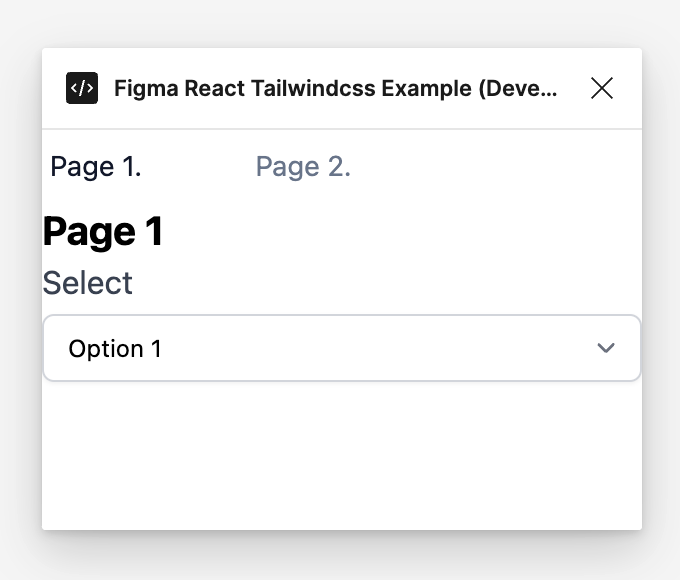
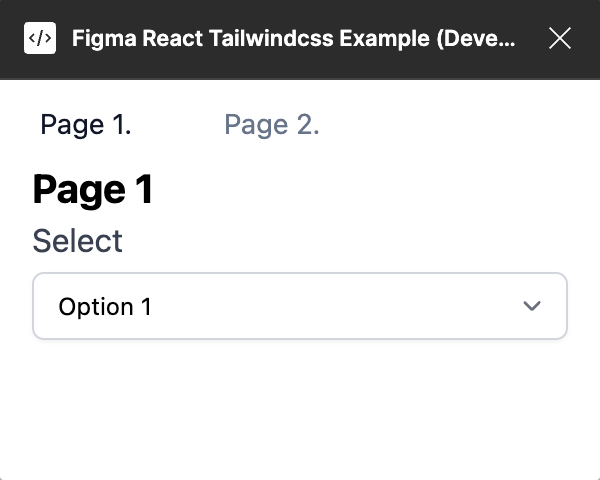
Fix: Add the padding to the root element.

Changed region(s): [[0.0, 0.0, 1.0, 0.9688], [0.36, 0.2188, 0.54, 0.3125]]

diff --git a/src/ui/page2.tsx b/src/ui/page2.tsx
@@ -3,7 +3,7 @@ import Navigation from "./navigation";
 
 function Page2({}) {
   return (
-    <div>
+    <div className="px-4 py-1">
       <Navigation />
       <h1 className="text-xl font-bold">Page 2...</h1>
     </div>

diff --git a/src/ui/page1.tsx b/src/ui/page1.tsx
@@ -33,7 +33,7 @@ function Page1({}) {
   }, [option]);
 
   return (
-    <div>
+    <div className="px-4 py-1">
       <Navigation />
       <h1 className="text-xl font-bold">Page 1</h1>
       <label className="block">
